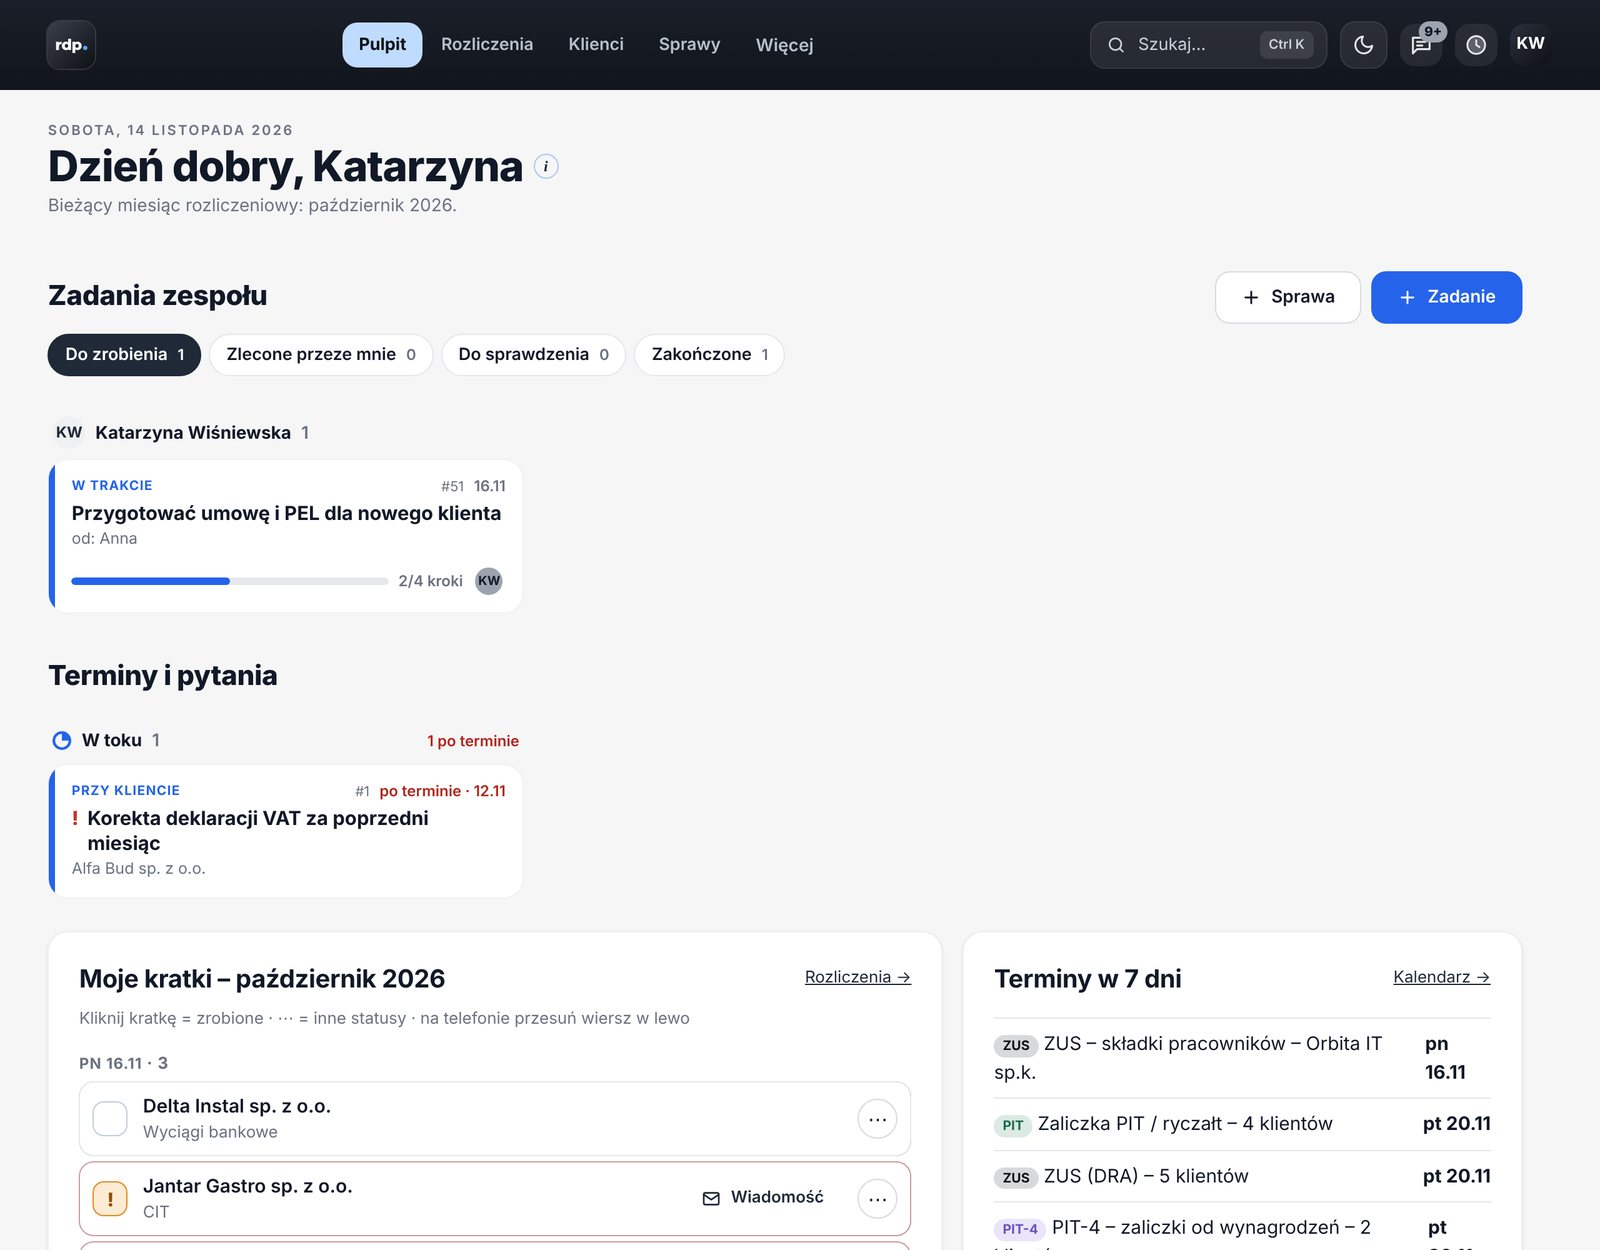
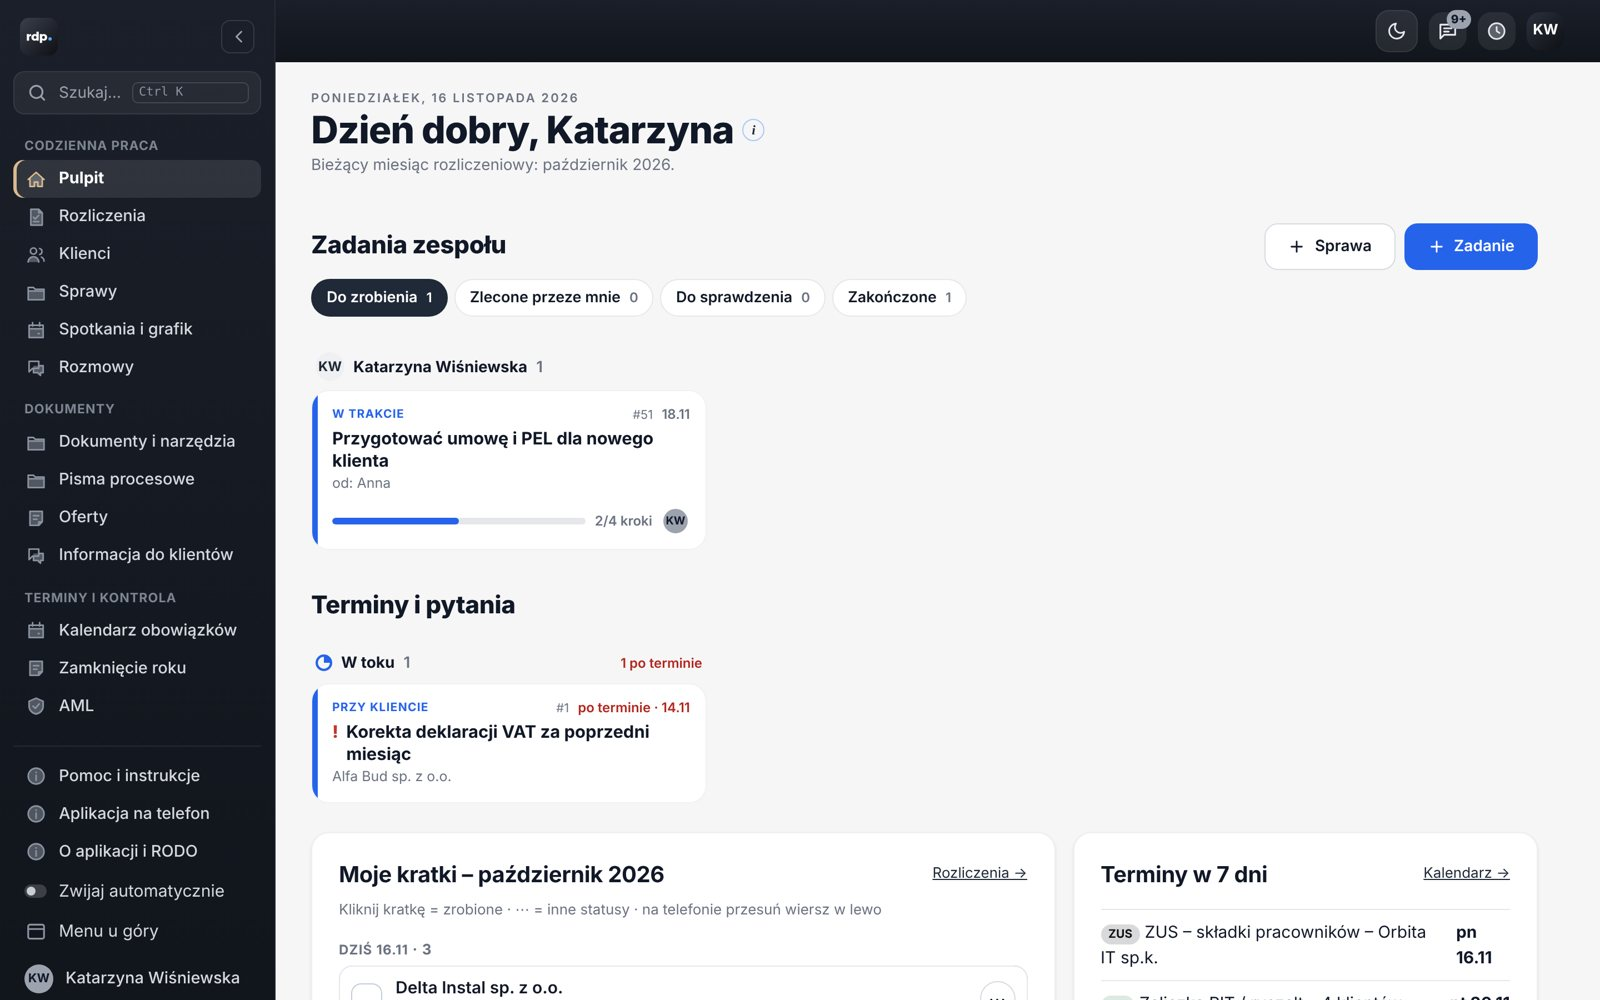
Menu po lewej domyślnie dla wszystkich: zwijanie ‹, „Zwijaj automatycznie”, „Menu u góry”; instrukcje i Co nowego
Claude-Session: https://claude.ai/code/session_015JBGQnBs9Q66i9WSPfBoSb

diff --git a/public/js/main.js b/public/js/main.js
@@ -157,18 +157,27 @@ function navDialog(mod, all) {
 }
 
 let navCfgOpen = null;
-// menu po lewej na komputerze (wybór zapisany na tym urządzeniu)
+// menu po lewej na komputerze – domyślnie włączone; tryby: 'open' (rozwinięte), 'mini' (same ikony), 'auto' (ikony, rozwija się po najechaniu)
+// wybór zapisany na tym urządzeniu; „Menu u góry” przywraca dawny pasek
+const SIDE_MODES = ['open', 'mini', 'auto'];
+function sideMode() { try { const m = localStorage.getItem('rdp-side-mode'); return SIDE_MODES.includes(m) ? m : 'open'; } catch { return 'open'; } }
+function applySide() {
+  const el = document.documentElement, m = sideMode();
+  let top = false; try { top = localStorage.getItem('rdp-nav-top') === '1'; } catch {}
+  el.classList.toggle('sidebar-on', !top);
+  el.classList.toggle('side-mini', m !== 'open');
+  el.classList.toggle('side-auto', m === 'auto');
+}
+function setSideMode(m) { try { localStorage.setItem('rdp-side-mode', m); } catch {} applySide(); }
 function setSideNav(on) {
-  document.documentElement.classList.toggle('sidebar-on', on);
-  try { localStorage.setItem('rdp-side-nav', on ? '1' : '0'); } catch {}
-  route();
+  try { localStorage.setItem('rdp-nav-top', on ? '0' : '1'); } catch {}
+  applySide(); route();
 }
 try {
   const q = new URLSearchParams(location.search).get('menu');
-  if (q === 'lewe') localStorage.setItem('rdp-side-nav', '1'); else if (q === 'gora') localStorage.setItem('rdp-side-nav', '0');
-  if (localStorage.getItem('rdp-side-nav') === '1') document.documentElement.classList.add('sidebar-on');
-  if (localStorage.getItem('rdp-side-mini') === '1') document.documentElement.classList.add('side-mini');
+  if (q === 'lewe') localStorage.setItem('rdp-nav-top', '0'); else if (q === 'gora') localStorage.setItem('rdp-nav-top', '1');
 } catch {}
+applySide();
 function moreMenu(items, active) {
   lastMore = items.filter(x => x[2] !== 'navcfg' && x[2] !== 'sidenav');
   const ico = h('span', { class: 'tab-ico', 'aria-hidden': 'true' }); ico.innerHTML = TAB_ICONS.more;
@@ -177,8 +186,7 @@ function moreMenu(items, active) {
     const i = h('span', { class: 'mm-ico', 'aria-hidden': 'true' }); i.innerHTML = TAB_ICONS[key] || TAB_ICONS.default;
     if (key === 'logout') return h('a', { href: '#/', role: 'menuitem', class: 'mm-logout', onclick: (e) => { e.preventDefault(); menu.hidden = true; logout(); } }, i, label);
     if (key === 'navcfg') return h('a', { href: '#', role: 'menuitem', class: 'mm-cfg', onclick: (e) => { e.preventDefault(); menu.hidden = true; navCfgOpen?.(); } }, i, label);
-    if (key === 'sidenav') { const onNow = document.documentElement.classList.contains('sidebar-on');
-      return h('a', { href: '#', role: 'menuitem', class: 'mm-cfg desk-only', onclick: (e) => { e.preventDefault(); menu.hidden = true; setSideNav(!onNow); } }, i, onNow ? 'Menu u góry (pasek)' : label); }
+    if (key === 'sidenav') return h('a', { href: '#', role: 'menuitem', class: 'mm-cfg desk-only', onclick: (e) => { e.preventDefault(); menu.hidden = true; setSideNav(true); } }, i, label);
     return h('a', { href, role: 'menuitem', class: key === active ? 'on' : null, onclick: () => { menu.hidden = true; } }, i, label);
   };
   const menu = h('div', { class: 'more-menu', role: 'menu', hidden: true }, ...items.map(item));
@@ -274,16 +282,24 @@ function layout(active) {
     });
     const rest = all.filter(x => !used.has(x[2]) && !BOTTOM.includes(x[2]));
     if (rest.length) groups.push(h('div', { class: 'sn-group' }, h('p', { class: 'sn-gh' }, 'Inne'), ...rest.map(item)));
-    const mini = h('button', { type: 'button', class: 'sn-mini', 'aria-label': 'Zwiń menu', title: 'Zwiń / rozwiń menu', onclick: () => {
-      const on = document.documentElement.classList.toggle('side-mini'); try { localStorage.setItem('rdp-side-mini', on ? '1' : '0'); } catch {} } });
+    const mini = h('button', { type: 'button', class: 'sn-mini', 'aria-label': 'Zwiń / rozwiń menu', title: 'Zwiń do ikon / rozwiń menu', onclick: () => setSideMode(sideMode() === 'open' ? 'mini' : 'open') });
+    // ustawienia menu: zwijanie automatyczne i powrót do paska u góry
+    const autoSw = h('button', { type: 'button', class: 'sn-item sn-opt', role: 'switch', 'aria-checked': String(sideMode() === 'auto'), title: 'Menu zwinięte do ikon – rozwija się po najechaniu myszką',
+      onclick: () => { const on = sideMode() !== 'auto'; setSideMode(on ? 'auto' : 'open'); autoSw.setAttribute('aria-checked', String(on)); autoSw.blur(); } },
+      h('span', { class: 'sn-ico sn-sw', 'aria-hidden': 'true' }), h('span', { class: 'sn-l' }, 'Zwijaj automatycznie'));
+    const topBtn = h('button', { type: 'button', class: 'sn-item sn-opt', title: 'Wróć do menu w pasku u góry', onclick: () => setSideNav(false) },
+      (() => { const i = h('span', { class: 'sn-ico', 'aria-hidden': 'true' }); i.innerHTML = '<svg width="18" height="18" viewBox="0 0 24 24" fill="none" stroke="currentColor" stroke-width="2" stroke-linecap="round" stroke-linejoin="round"><rect x="3" y="4" width="18" height="16" rx="2"/><path d="M3 9h18"/></svg>'; return i; })(),
+      h('span', { class: 'sn-l' }, 'Menu u góry'));
     mini.innerHTML = '<svg width="18" height="18" viewBox="0 0 24 24" fill="none" stroke="currentColor" stroke-width="2" stroke-linecap="round" stroke-linejoin="round" aria-hidden="true"><path d="M15 6l-6 6 6 6"/></svg>';
     return h('aside', { class: 'side-nav', 'aria-label': 'Menu' },
       h('div', { class: 'sn-top' }, h('a', { href: M.home, class: 'sn-logo' }, h('img', { src: LIGHT_LOGO(M.logo), alt: M.alt })), mini),
       h('button', { type: 'button', class: 'sn-search', onclick: () => openCmdk() }, (() => { const i = h('span', { class: 'sn-ico' }); i.innerHTML = '<svg width="16" height="16" viewBox="0 0 24 24" fill="none" stroke="currentColor" stroke-width="2" stroke-linecap="round" aria-hidden="true"><circle cx="11" cy="11" r="7"/><path d="m20 20-3.5-3.5"/></svg>'; return i; })(), h('span', { class: 'sn-l' }, 'Szukaj…'), h('kbd', { class: 'sn-l' }, 'Ctrl K')),
       h('nav', { class: 'sn-groups' }, ...groups.filter(Boolean)),
-      h('div', { class: 'sn-bottom' }, ...BOTTOM.map(k => all.find(x => x[2] === k)).filter(Boolean).map(item),
+      h('div', { class: 'sn-bottom' }, ...BOTTOM.map(k => all.find(x => x[2] === k)).filter(Boolean).map(item), autoSw, topBtn,
         h('a', { href: '#/profil', class: 'sn-item sn-me' + (active === 'profil' ? ' on' : ''), title: me.email }, h('span', { class: 'avatar sn-av' }, ava(me)), h('span', { class: 'sn-l' }, me.full_name))));
   })();
+  // partnerzy i konta tylko-JPK nie mają menu po lewej
+  if (sideNav) applySide(); else document.documentElement.classList.remove('sidebar-on', 'side-mini', 'side-auto');
   const header = h('header', { class: 'site-header' },
     h('div', { class: 'wrap nav' },
       h('div', { class: 'nav-brand' },
@@ -292,7 +308,7 @@ function layout(active) {
       h('nav', { class: 'nav-links' },
         ...M.tabs.map(link),
         ...pinned.map(x => { const a = link([x[0], x[1].split(/ – | \(| i |, /)[0], x[2]]); a.classList.add('nav-pin'); a.title = x[1]; return a; }),
-        moreAll.length ? moreMenu([...moreAll.filter(x => !pinned.includes(x)), ...(jpkOnly ? [] : [['#', 'Dostosuj pasek…', 'navcfg'], ['#', 'Menu po lewej (komputer)', 'sidenav']])], active) : null),
+        moreAll.length ? moreMenu([...moreAll.filter(x => !pinned.includes(x)), ...(jpkOnly ? [] : [['#', 'Dostosuj pasek…', 'navcfg'], ['#', 'Menu po lewej stronie', 'sidenav']])], active) : null),
       h('div', { class: 'nav-user' },
         jpkOnly ? null : timerPillEl(),
         (() => { const b = h('button', { type: 'button', class: 'hdr-search', onclick: () => openCmdk(), 'aria-label': 'Szukaj (Ctrl K)', 'data-tip': 'Szukaj klienta, sprawy, zgłoszenia, narzędzia' });

diff --git a/public/app.css b/public/app.css
@@ -3363,3 +3363,23 @@ html body .avatar .av-img,html body .av .av-img{border-radius:50%;transform:scal
   html.sidebar-on.side-mini .sn-group{border-top-color:rgba(255,255,255,.08)}
   html.sidebar-on .site-header{border-bottom:0}
 }
+
+/* menu po lewej: przełącznik „Zwijaj automatycznie”, tryb auto (ikony; rozwija się nad treścią po najechaniu) */
+@media (min-width:1100px){
+  .sn-opt{width:100%;border:0;background:none;font:inherit;cursor:pointer;text-align:left}
+  .sn-sw{position:relative;width:20px;height:12px;border-radius:99px;background:rgba(255,255,255,.18);transition:background .15s}
+  .sn-sw::after{content:"";position:absolute;top:2px;left:2px;width:8px;height:8px;border-radius:50%;background:#C9CDD4;transition:transform .15s}
+  .sn-opt[aria-checked="true"] .sn-sw{background:#D9B98E}
+  .sn-opt[aria-checked="true"] .sn-sw::after{transform:translateX(8px);background:#1A1F29}
+  html.sidebar-on .side-nav{transition:width .16s ease, box-shadow .16s ease}
+  html.sidebar-on.side-auto .side-nav:hover,html.sidebar-on.side-auto .side-nav:has(:focus-visible){width:248px;padding-inline:12px;box-shadow:12px 0 40px rgba(0,0,0,.28);transition-delay:.12s}
+  html.sidebar-on.side-auto .side-nav:hover .sn-l,html.sidebar-on.side-auto .side-nav:has(:focus-visible) .sn-l{display:inline}
+  html.sidebar-on.side-auto .side-nav:hover .sn-gh,html.sidebar-on.side-auto .side-nav:has(:focus-visible) .sn-gh{display:block}
+  html.sidebar-on.side-auto .side-nav:hover .sn-logo,html.sidebar-on.side-auto .side-nav:has(:focus-visible) .sn-logo{display:block}
+  html.sidebar-on.side-auto .side-nav:hover .sn-top,html.sidebar-on.side-auto .side-nav:has(:focus-visible) .sn-top{justify-content:space-between;padding-inline:6px}
+  html.sidebar-on.side-auto .side-nav:hover :is(.sn-item,.sn-search),html.sidebar-on.side-auto .side-nav:has(:focus-visible) :is(.sn-item,.sn-search){justify-content:flex-start;padding-inline:10px}
+  html.sidebar-on.side-auto .side-nav:hover .sn-group,html.sidebar-on.side-auto .side-nav:has(:focus-visible) .sn-group{border-top:0;padding-top:0}
+  html.sidebar-on.side-auto .sn-mini{display:none}
+  html.sidebar-on.side-auto .side-nav:hover .sn-search .sn-l:first-of-type{flex:1}
+  .sn-item .sn-l{white-space:nowrap;overflow:hidden;text-overflow:ellipsis}
+}

diff --git a/public/js/views/oaplikacji.js b/public/js/views/oaplikacji.js
@@ -103,7 +103,7 @@ const NEWS = [
     'UPL-1: „Wyślij klientowi” – e-mail z wypełnionym PDF i stroną z instrukcją złożenia; urząd skarbowy z listy (UPL-1, PPS-1).',
     'Umowa w PDF jako prawdziwy dokument z tekstem (logo, stopka, bez uciętych wierszy); data zawarcia umów i zleceń = dzień złożenia pierwszego podpisu.',
     'Poprawki: kolejność imienia i nazwiska w UPL-1/PPS-1/PEL, nazwy klientów-osób „Nazwisko Imię”, „Braki w profilu” pokazują brakujące pola, powiadomienie otwiera zadanie wprost, powiadomienie o zamknięciu/anulowaniu zadania. Okno „Co nowego” po zalogowaniu. Na iPhonie przewijane wiadomości w zadaniu nie wchodzą już nad nagłówek okna.',
-    'Na próbę: menu po lewej stronie na komputerze (Więcej → „Menu po lewej”) – wszystkie miejsca pogrupowane, z wyszukiwarką; można je zwinąć do samych ikon.',
+    'Menu po lewej stronie na komputerze – domyślnie dla wszystkich: wszystkie miejsca pogrupowane, z wyszukiwarką. Przycisk ‹ zwija je do samych ikon, „Zwijaj automatycznie” – menu jest zwinięte i rozwija się po najechaniu myszką. Kto woli stary układ: „Menu u góry” (powrót: Więcej → „Menu po lewej stronie”).',
     'Edycja treści przed wysłaniem do podpisu: w oknie „Wyślij do podpisu” przycisk „Edytuj treść” – poprawienie, usunięcie lub dodanie akapitów umowy księgowej, zlecenia, umowy doradczej i umowy z biurem; poprawki zapisują się przy dokumencie (kolejne wysyłki, PDF i Word), „Od nowa” generuje go ponownie ze wzoru.',
     'Naprawione: kliknięcie powiadomienia o zadaniu otwiera od razu to zadanie (także gdy aplikacja była zamknięta albo otwarta na Pulpicie).',
     'Umawianie spotkań: pod linkiem app.ruszniak.io/umow wygląd jak pozostałe strony dla klientów; w okienku na rkdp.pl i m2tax.pl – kolory i kształty danej strony (poprawione m.in. zaznaczenie dnia na rkdp.pl). Doradcy w kolejności: Michał Ruszniak, Marcin Otręba – na stronach, w grafiku i przy umawianiu w aplikacji.',

diff --git a/public/pomoc/ksiegowosc/index.html b/public/pomoc/ksiegowosc/index.html
@@ -33,8 +33,8 @@
 </ol>
 
 <h2 id="pulpit"><span class="n">1</span>Pulpit – od czego zacząć dzień</h2>
-<p>Po zalogowaniu widzisz <b>Pulpit</b>. Menu na górze: <b>Pulpit · Rozliczenia · Klienci · Sprawy · Więcej</b>. Po prawej: wyszukiwarka (<kbd>Ctrl</kbd>+<kbd>K</kbd>), dymek z nieprzeczytanymi rozmowami, zegar (lista obecności) i Twój profil.</p>
-<figure><img src="/pomoc/img/ksieg-pulpit.jpg" alt="Pulpit księgowej" loading="lazy"><figcaption>Na górze Twoje zadania, niżej „Terminy i pytania”, „Moje kratki” na najbliższe dni i „Terminy w 7 dni”.</figcaption></figure>
+<p>Po zalogowaniu widzisz <b>Pulpit</b>. Na komputerze po lewej stronie jest <b>menu</b> ze wszystkimi miejscami w grupach (Codzienna praca, Dokumenty, Terminy i kontrola, Inne). Przycisk <b>‹</b> zwija je do samych ikon, a przełącznik <b>Zwijaj automatycznie</b> sprawia, że menu jest zwinięte i rozwija się po najechaniu myszką. <b>Menu u góry</b> przywraca dawny układ (Pulpit · Rozliczenia · Klienci · Sprawy · Więcej; powrót: Więcej → Menu po lewej stronie). Na telefonie menu jest na dole ekranu. Na górze po prawej: wyszukiwarka (<kbd>Ctrl</kbd>+<kbd>K</kbd>), dymek z nieprzeczytanymi rozmowami, zegar (lista obecności) i Twój profil.</p>
+<figure><img src="/pomoc/img/ksieg-pulpit.jpg" alt="Pulpit księgowej" loading="lazy"><figcaption>Po lewej menu, na górze Twoje zadania, niżej „Terminy i pytania”, „Moje kratki” na najbliższe dni i „Terminy w 7 dni”.</figcaption></figure>
 <ul>
   <li><b>Zadania zespołu</b> – „Do zrobienia” (zlecone Tobie), „Zlecone przeze mnie”, „Do sprawdzenia”, „Zakończone”. Kliknij kartę, aby otworzyć zadanie.</li>
   <li><b>Moje kratki</b> – Twoi klienci z terminem w najbliższych dniach. Kliknięcie kratki = zrobione, <kbd>⋯</kbd> = inne statusy.</li>

diff --git a/public/pomoc/doradca/index.html b/public/pomoc/doradca/index.html
@@ -33,7 +33,7 @@
 </ol>
 
 <h2 id="pulpit"><span class="n">1</span>Pulpit</h2>
-<p>Po zalogowaniu widzisz <b>Pulpit</b>: na górze <b>Zadania zespołu</b> (Twoje zadania, w tym pytania od biur), obok spotkania z klientami, AML i kalendarz. Menu: <b>Pulpit · Klienci · Sprawy · Więcej</b> (dokumenty i pisma, zadania, spotkania, czas pracy).</p>
+<p>Po zalogowaniu widzisz <b>Pulpit</b>: na górze <b>Zadania zespołu</b> (Twoje zadania, w tym pytania od biur), obok spotkania z klientami, AML i kalendarz. Na komputerze po lewej jest menu ze wszystkimi miejscami w grupach (dokumenty i pisma, zadania, spotkania, czas pracy); przycisk <b>‹</b> zwija je do ikon, <b>Zwijaj automatycznie</b> chowa je do czasu najechania myszką, a <b>Menu u góry</b> przywraca dawny układ (Pulpit · Klienci · Sprawy · Więcej). Na telefonie menu jest na dole.</p>
 <figure><img src="/pomoc/img/doradca-pulpit.jpg" alt="Pulpit doradcy" loading="lazy"><figcaption>Zadania pogrupowane według osoby; filtry „Do zrobienia”, „Zlecone przeze mnie”, „Do sprawdzenia”, „Zakończone”.</figcaption></figure>
 
 <h2 id="zadania"><span class="n">2</span>Zadania – lista</h2>

diff --git a/public/sw.js b/public/sw.js
@@ -1,7 +1,7 @@
 // Service worker aplikacji RKDP: powiadomienia push, instalacja jako aplikacja (PWA) i ekran „brak internetu”.
 // Danych z bazy NIE zapisujemy w pamięci urządzenia – w trybie offline pokazujemy tylko komunikat.
 const OFFLINE = '/offline.html';
-const CACHE = 'rkdp-shell-v90';
+const CACHE = 'rkdp-shell-v91';
 const NAV = 'rkdp-nav'; // cel kliknięcia w powiadomienie – odbiera go otwarta aplikacja
 
 self.addEventListener('install', e => {
